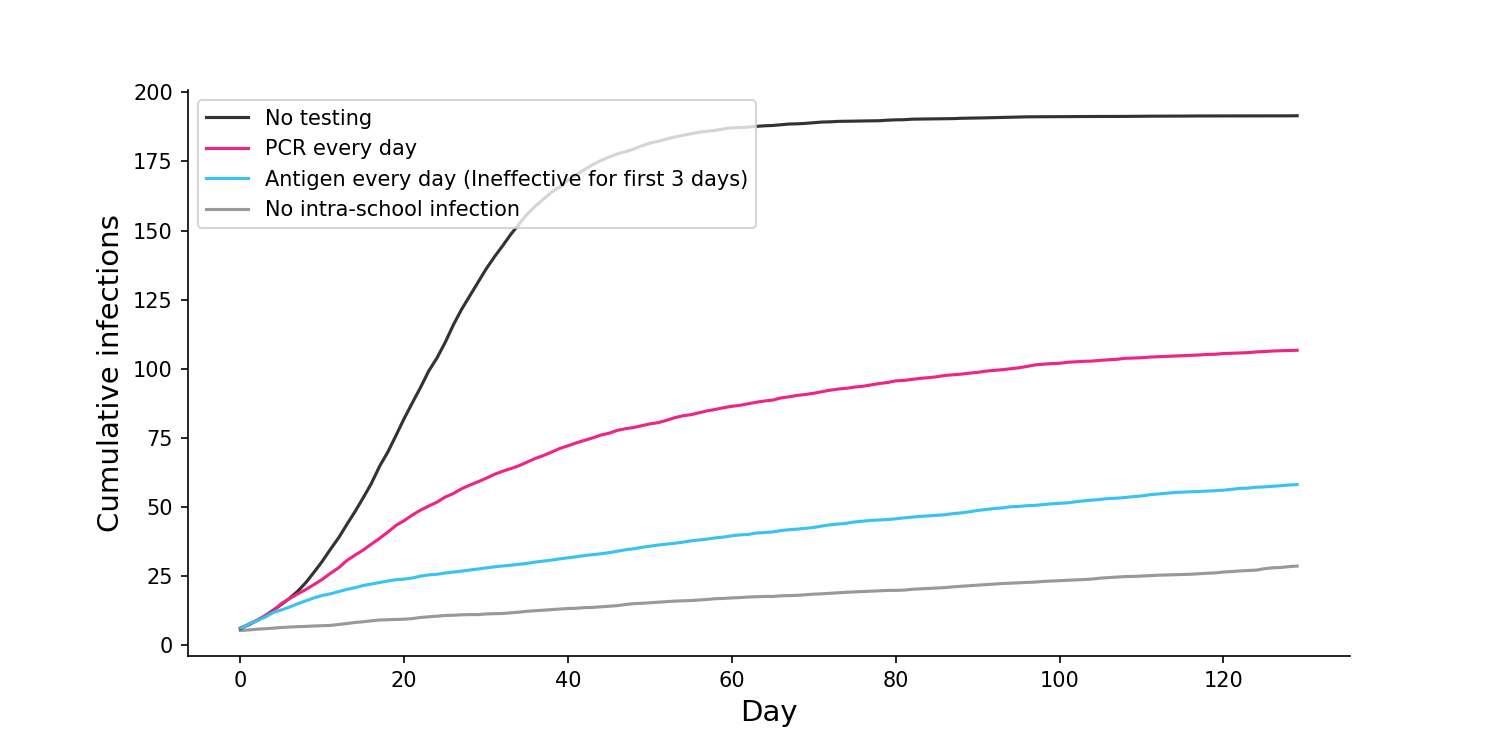
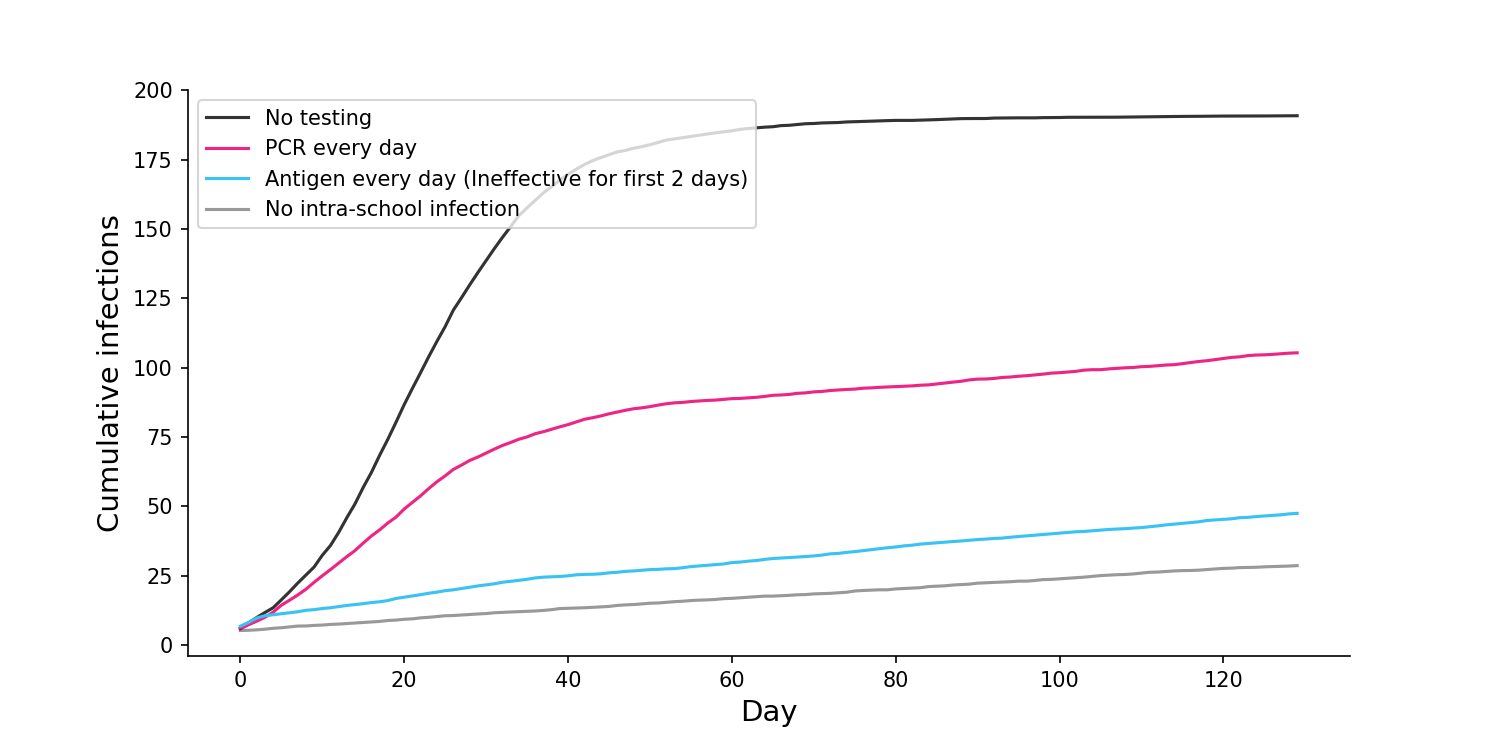
another preprint

diff --git a/_site/2020/07/15/why-inaccurate-antigen-tests-are-better-than-slow-pcr-tests/index.html b/_site/2020/07/15/why-inaccurate-antigen-tests-are-better-than-slow-pcr-tests/index.html
@@ -178,7 +178,7 @@ http://stackoverflow.com/questions/7169370/d3-js-and-document-onready
 <br /> <strong>A:</strong> For mass testing of asymptomatic individuals in schools and offices, antigen tests are cheaper and more effective than PCR tests.</p>
 
 <p><strong>Q:</strong> <em>Have other people come to this conclusion?</em>
-<br /> <strong>A:</strong> Paul Romer has run some <a href="https://paulromer.net/covid-sim-part3/">simulations</a> showing that low sensitivity tests can be effective in mass testing, but to my knowledge nobody has compared the impact of sensitivity to the impact of delays. After writing this, I came across a recent <a href="https://www.medrxiv.org/content/10.1101/2020.07.06.20147702v1.full.pdf">pre-print</a> showing how sensitivity is less important than test frequency, which is closely related to test delays.</p>
+<br /> <strong>A:</strong> Paul Romer has run some <a href="https://paulromer.net/covid-sim-part3/">simulations</a> showing that low sensitivity tests can be effective in mass testing. After writing this, I came across a recent <a href="https://www.medrxiv.org/content/10.1101/2020.07.06.20147702v1.full.pdf">pre-print by Paltiel et al.</a> showing how sensitivity is less important than test frequency, which is closely related to test delays, and another <a href="https://www.medrxiv.org/content/10.1101/2020.06.22.20136309v2.full.pdf">pre-print by Larremore et al.</a> which explicitly shows that sensitivity is less important than testing delays.</p>
 
 <p><strong>Q:</strong> <em>Are you arguing that antigen tests should always replace PCR?</em>
 <br /> <strong>A:</strong> No, I’m only suggesting it for mass testing of asymptomatic individuals. If a symptomatic person comes into a doctor’s office a PCR test would make sense, since sensitivity becomes more important and cost becomes less important.</p>
@@ -187,7 +187,7 @@ http://stackoverflow.com/questions/7169370/d3-js-and-document-onready
 <br /> <strong>A:</strong> Low sensitivity for these individuals is <a href="https://www.sciencedirect.com/science/article/abs/pii/S138665321000106X">likely due to low viral load</a>, which most researchers believe means they will not be very infectious. That said, if would be really good if we could get more research on this, since it’s an important question.</p>
 
 <p><strong>Q:</strong> <em>What if the sensitivity of the antigen test is especially low at the start of infection?</em>
-<br /> <strong>A:</strong> Another good question. As with the previous answer, this period of low sensitivity — if it exists — would likely be to due low viral load, when the individual is less infectious. But <em>even if</em> we assume the individual is just as infectious during this early period, the antigen test still remains superior. To estimate this, I ran simulations where antigen tests were completely ineffective for the first three days of infection. Even with this constraint, and even assume the individuals are fully infectious during this period, antigen tests still outperformed PCR.</p>
+<br /> <strong>A:</strong> Another good question. As with the previous answer, this period of low sensitivity would likely be to due low viral load, when the individual is less infectious. Furthermore, the period where PCR tests can detect the virus while antigen tests cannot is <a href="https://www.medrxiv.org/content/10.1101/2020.06.22.20136309v2.full.pdf">probably only 24 hours</a>. But <em>even if</em> we assume the individual is just as infectious during this early period, the antigen test still remains superior. To estimate this, I ran simulations where antigen tests were completely ineffective for the first two days of infection, a conservative assumption. Even with this constraint, and even assuming the individuals are fully infectious during this period, antigen tests still outperformed PCR.</p>
 
 <div class="wrapper">
   <img src="/assets/2020_antigen_testing/fig_test_every_1_day_delayed_detection.png" class="inner" style="position:relative border:#222 2px solid; max-width:95%;" />

diff --git a/_posts/2020-07-15-why-inaccurate-antigen-tests-are-better-than-slow-pcr-tests.md b/_posts/2020-07-15-why-inaccurate-antigen-tests-are-better-than-slow-pcr-tests.md
@@ -69,12 +69,12 @@ For any reasonable value of $$ s $$, $$ d $$ will be quite low. Here's a strikin
 This analysis assumes that $$ s $$ is fixed across time and individuals, an assumption I'll address in the FAQ, below.
 
 ### FAQ:
-
+  
 **Q:** _What is your main conclusion from this analysis?_
 <br> **A:** For mass testing of asymptomatic individuals in schools and offices, antigen tests are cheaper and more effective than PCR tests.
 
 **Q:** _Have other people come to this conclusion?_
-<br> **A:** Paul Romer has run some [simulations](https://paulromer.net/covid-sim-part3/) showing that low sensitivity tests can be effective in mass testing, but to my knowledge nobody has compared the impact of sensitivity to the impact of delays. After writing this, I came across a recent [pre-print](https://www.medrxiv.org/content/10.1101/2020.07.06.20147702v1.full.pdf) showing how sensitivity is less important than test frequency, which is closely related to test delays.
+<br> **A:** Paul Romer has run some [simulations](https://paulromer.net/covid-sim-part3/) showing that low sensitivity tests can be effective in mass testing. After writing this, I came across a recent [pre-print by Paltiel et al.](https://www.medrxiv.org/content/10.1101/2020.07.06.20147702v1.full.pdf) showing how sensitivity is less important than test frequency, which is closely related to test delays, and another [pre-print by Larremore et al.](https://www.medrxiv.org/content/10.1101/2020.06.22.20136309v2.full.pdf) which explicitly shows that sensitivity is less important than testing delays.
 
 **Q:** _Are you arguing that antigen tests should always replace PCR?_
 <br> **A:** No, I’m only suggesting it for mass testing of asymptomatic individuals. If a symptomatic person comes into a doctor’s office a PCR test would make sense, since sensitivity becomes more important and cost becomes less important.
@@ -83,7 +83,7 @@ This analysis assumes that $$ s $$ is fixed across time and individuals, an assu
 <br> **A:** Low sensitivity for these individuals is [likely due to low viral load](https://www.sciencedirect.com/science/article/abs/pii/S138665321000106X), which most researchers believe means they will not be very infectious. That said, if would be really good if we could get more research on this, since it's an important question.
 
 **Q:** _What if the sensitivity of the antigen test is especially low at the start of infection?_
-<br> **A:** Another good question. As with the previous answer, this period of low sensitivity — if it exists — would likely be to due low viral load, when the individual is less infectious. But _even if_ we assume the individual is just as infectious during this early period, the antigen test still remains superior. To estimate this, I ran simulations where antigen tests were completely ineffective for the first three days of infection. Even with this constraint, and even assume the individuals are fully infectious during this period, antigen tests still outperformed PCR.
+<br> **A:** Another good question. As with the previous answer, this period of low sensitivity would likely be to due low viral load, when the individual is less infectious. Furthermore, the period where PCR tests can detect the virus while antigen tests cannot is [probably only 24 hours](https://www.medrxiv.org/content/10.1101/2020.06.22.20136309v2.full.pdf). But _even if_ we assume the individual is just as infectious during this early period, the antigen test still remains superior. To estimate this, I ran simulations where antigen tests were completely ineffective for the first two days of infection, a conservative assumption. Even with this constraint, and even assuming the individuals are fully infectious during this period, antigen tests still outperformed PCR.
 
 <div class="wrapper">
   <img src='/assets/2020_antigen_testing/fig_test_every_1_day_delayed_detection.png' class="inner" style="position:relative border:#222 2px solid; max-width:95%;" >
